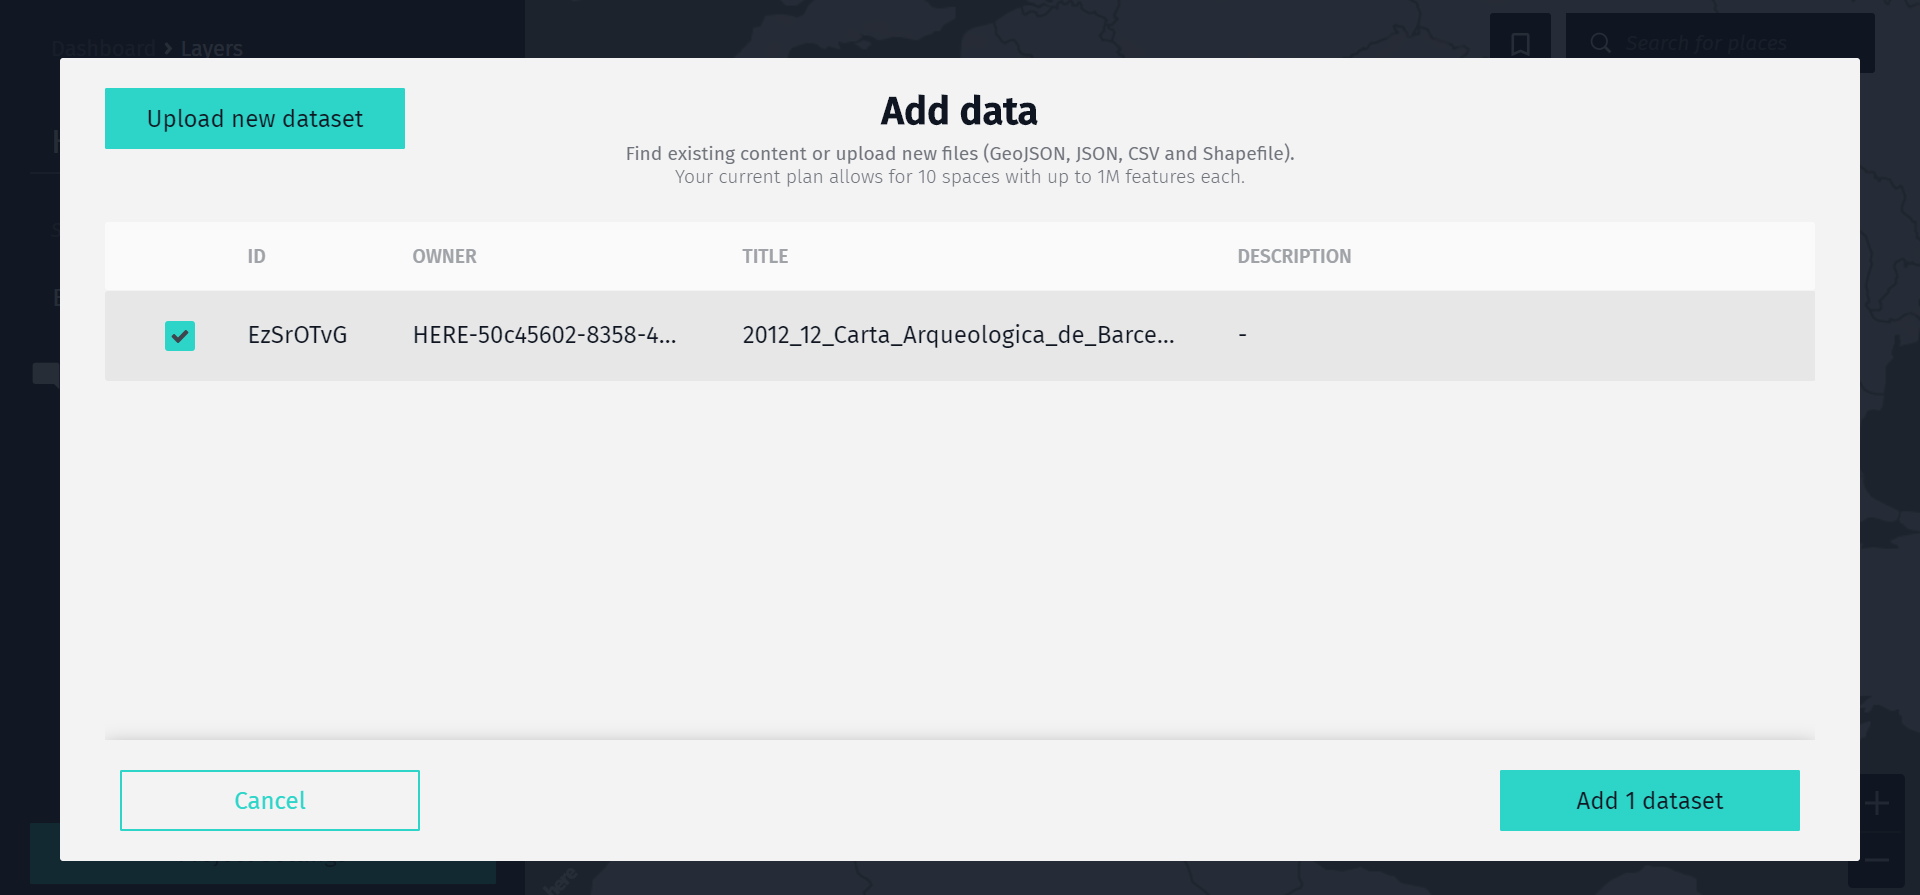
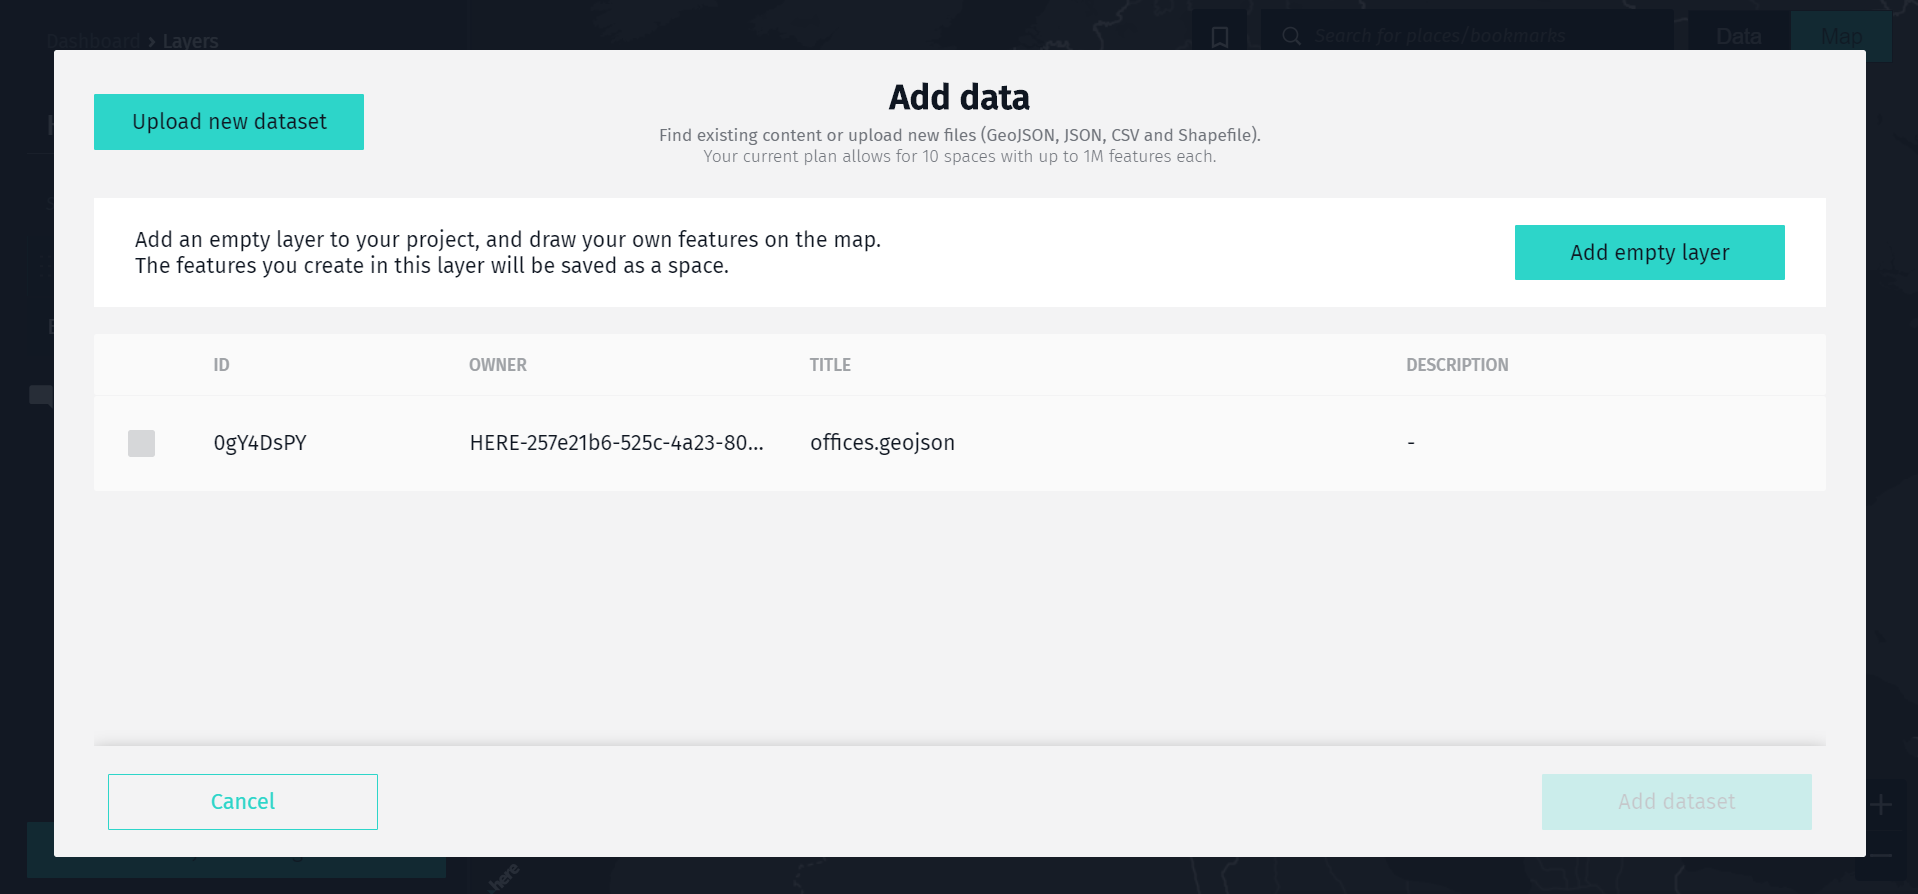
updates

diff --git a/docs/studio/index.md b/docs/studio/index.md
@@ -24,8 +24,10 @@ is called a *layer*. You can add many layers to make your map and put them on to
 
 ## Upload your data
 
-You can create a layer and upload data by clicking on the `+ Add` command below your project name.
-This brings up a data selection dialog where you can pick from data that you already have in your Hub, or upload a new file. This file would preferably be GeoJSON, but you can also use JSON, CSV or a Shapefile.
+You can create an empty layer or upload data by clicking on the `+ Add` command below your project name.
+This brings up a data selection dialog where you can pick from data that you already have in your Hub,
+
+or upload a new file. This file would preferably be GeoJSON, but you can also use JSON, CSV or a Shapefile.
 
 [![Project](../assets/images/studio-addlayer.png)](../assets/images/studio-addlayer.png)
 
@@ -47,6 +49,35 @@ You can always get using the corresponding `Map` button.
 !!! tip
     A similar data table view is also available from the main `Data Hub` where you can also edit
     the name and description of the space.
+
+## Create or edit content
+
+You can also use Studio to visually edit the features contained in your layers. Once you have
+selected a layer from the list, you will see a `Pencil` button in the top left hand corner of
+the map.
+
+[![Project](../assets/images/studio-editLayer.png)](../assets/images/studio-editLayer.png)
+
+When you switch into editing mode, the sidebar moves out of the way to give you more room to
+work with the features in the layer visually on the map.
+
+!!! note "Geographic Feature Editor"
+    Studio has a very powerful feature editor built-in. In fact, you get access to the same
+    editor that drives the community map editing capabilities in the [**HERE Map Creator**](http://mapcreator.here.com)
+
+[![Project](../assets/images/studio-editFeatures.png)](../assets/images/studio-editFeatures.png)
+
+On the top of the screen you find a toolbar you can use to create new features like points, lines
+or area polygons. This new - or of course any of the existing features you select on the map - can
+then be moved or even re-shaped visually by dragging control points. It's just like in a drawing
+program like Illustrator or Sketch.
+
+[![Project](../assets/images/studio-editToolbar.png)](../assets/images/studio-editToolbar.png)
+
+If you make a mistake or want to change something, you can undo (or redo) any change you made.
+You need to commit any changes you want to keep permanently in your data by selecting the
+`save` button. You can also `revert` back to the original version if you want to start over
+again.
 
 ## Style your layer
 

diff --git a/docs/cli/index.md b/docs/cli/index.md
@@ -4,8 +4,8 @@ We think developers deserve an easy to use, convenient and streamlined experienc
 
 [![CLI](../assets/images/cli.png)](../assets/images/cli.png)
 
-!!! tip "Open Source on GitHub"
-    HERE CLI will be Open Source, so that other teams and developers like yourself can contribute new functionality and features.
+!!! tip "HERE CLI on GitHub"
+    [HERE CLI is Open Source](https://github.com/heremaps/here-cli), where developers like yourself can contribute new functionality and features.
 
 In this section, we'll quickly introduce you to the HERE CLI, how to install it and how to make the
 most of it while working on your project.
@@ -80,7 +80,7 @@ When you are sure your system has `node` and `npm` installed you can go ahead an
 version of HERE CLI with following command:
 
 ``` sh
-npm install -g http://techpreview.xyz/herecli.tgz
+npm install -g @here/cli
 ```
 
 !!! note "Administrative permissions"
@@ -91,24 +91,21 @@ npm install -g http://techpreview.xyz/herecli.tgz
     To elevate you permissions, either start an **Admin Command Prompt** or **Admin PowerShell** on Windows,
     or use `sudo` on Linux or macOS.
 
-!!! info "Moving to NPM Registry"
-    In the near future the `HERE CLI` package will be published to the [npm regsitry](https://www.npmjs.com/) and can be installed directly from there.
-
 ### Configure HERE CLI
 
 HERE CLI needs to have access to your projects to help you work with your data. For that, you
 need to configure your `appId` and `appCode`. You only need to do this once for a project.
 
 ``` sh
-here configure account
+here configure set
 ```
 
-When prompted, enter your `Email` and your `Password`.
+When prompted, enter your `appId` and your `appCode`.
 
 The CLI will immediately try to *verify* if the entries can be
 used to log into HERE XYZ and report back to you accordingly.
 
-!!! question "Where is my `Email` and `Password` stored?"
+!!! question "Where is my `appId` and `appCode` stored?"
 
     Don't worry, the information entered is safely stored and encrypted on your local machine (if you are curious, look for a file called `.herecli` in your home directory
     which contains the configuration data)

diff --git a/docs/index.md b/docs/index.md
@@ -1,8 +1,8 @@
 
 ## Make great maps easier and faster
 
-HERE XYZ is a *real-time cloud-based location platform*
-that offers simple APIs, SDKs, Components, and Interactive tools
+HERE XYZ is an open, interoperable and real-time location data management service from HERE Technologies
+that offers simple APIs, SDKs, components, and interactive tools
 that enable everyone to make maps easier and faster.
 
 
@@ -35,16 +35,12 @@ See our **[getting started guide](getting-started.md)** for more details.
 Then, install the latest version of our CLI with `npm`:
 
 ``` sh
-npm install -g http://techpreview.xyz/herecli.tgz
+npm install -g @here/cli
 ```
-
-!!! info "Moving to NPM Registry"
-    In the near future the `HERE CLI` package will be published to the [npm regsitry](https://www.npmjs.com/) and can be installed directly from there.
-
 
 ## What to expect
 
-* Powerful **map data management** and **visualization tools** that make working with
+* Powerful **map data management** and **display tools** that make working with
   map data convenient and effective. The tools are easy to understand even if
   you have no prior experience with geospatial, location or projections concepts.
 

diff --git a/docs/api/links.md b/docs/api/links.md
@@ -58,8 +58,4 @@ And here now ready for you to copy and paste into your HTML header:
 
 ## HERE Developer Portal Documentation
 
-!!! warning
-    This link only works on the internal network (or on VPN) at the moment and will be updated
-    once the documentation is released to Developer Portal
-
-[`https://dv.developer.here.com/documentation`](https://dv.developer.here.com/documentation)
+[`https://developer.here.com/documentation/xyz/`](https://developer.here.com/documentation/xyz/)

diff --git a/CONTRIBUTING.md b/CONTRIBUTING.md
@@ -12,7 +12,6 @@ you know that your code infringes on other people's patents.
 Coordinating up front makes it much easier to avoid
 frustration later on.
 
-### Code reviews
-All submissions, including submissions by project members, require review. We
-use Github pull requests for this purpose.
+### Content reviews
+All submissions require review. We use Github pull requests for this purpose.
 

diff --git a/docs/api/walkthrough/addinganddeleting.md b/docs/api/walkthrough/addinganddeleting.md
@@ -151,5 +151,3 @@ You can even delete all of your features by using the following request:
 ```HTTP
 DELETE /spaces/{spaceId}/features?tags=*
 ```
-
-In this case the 
